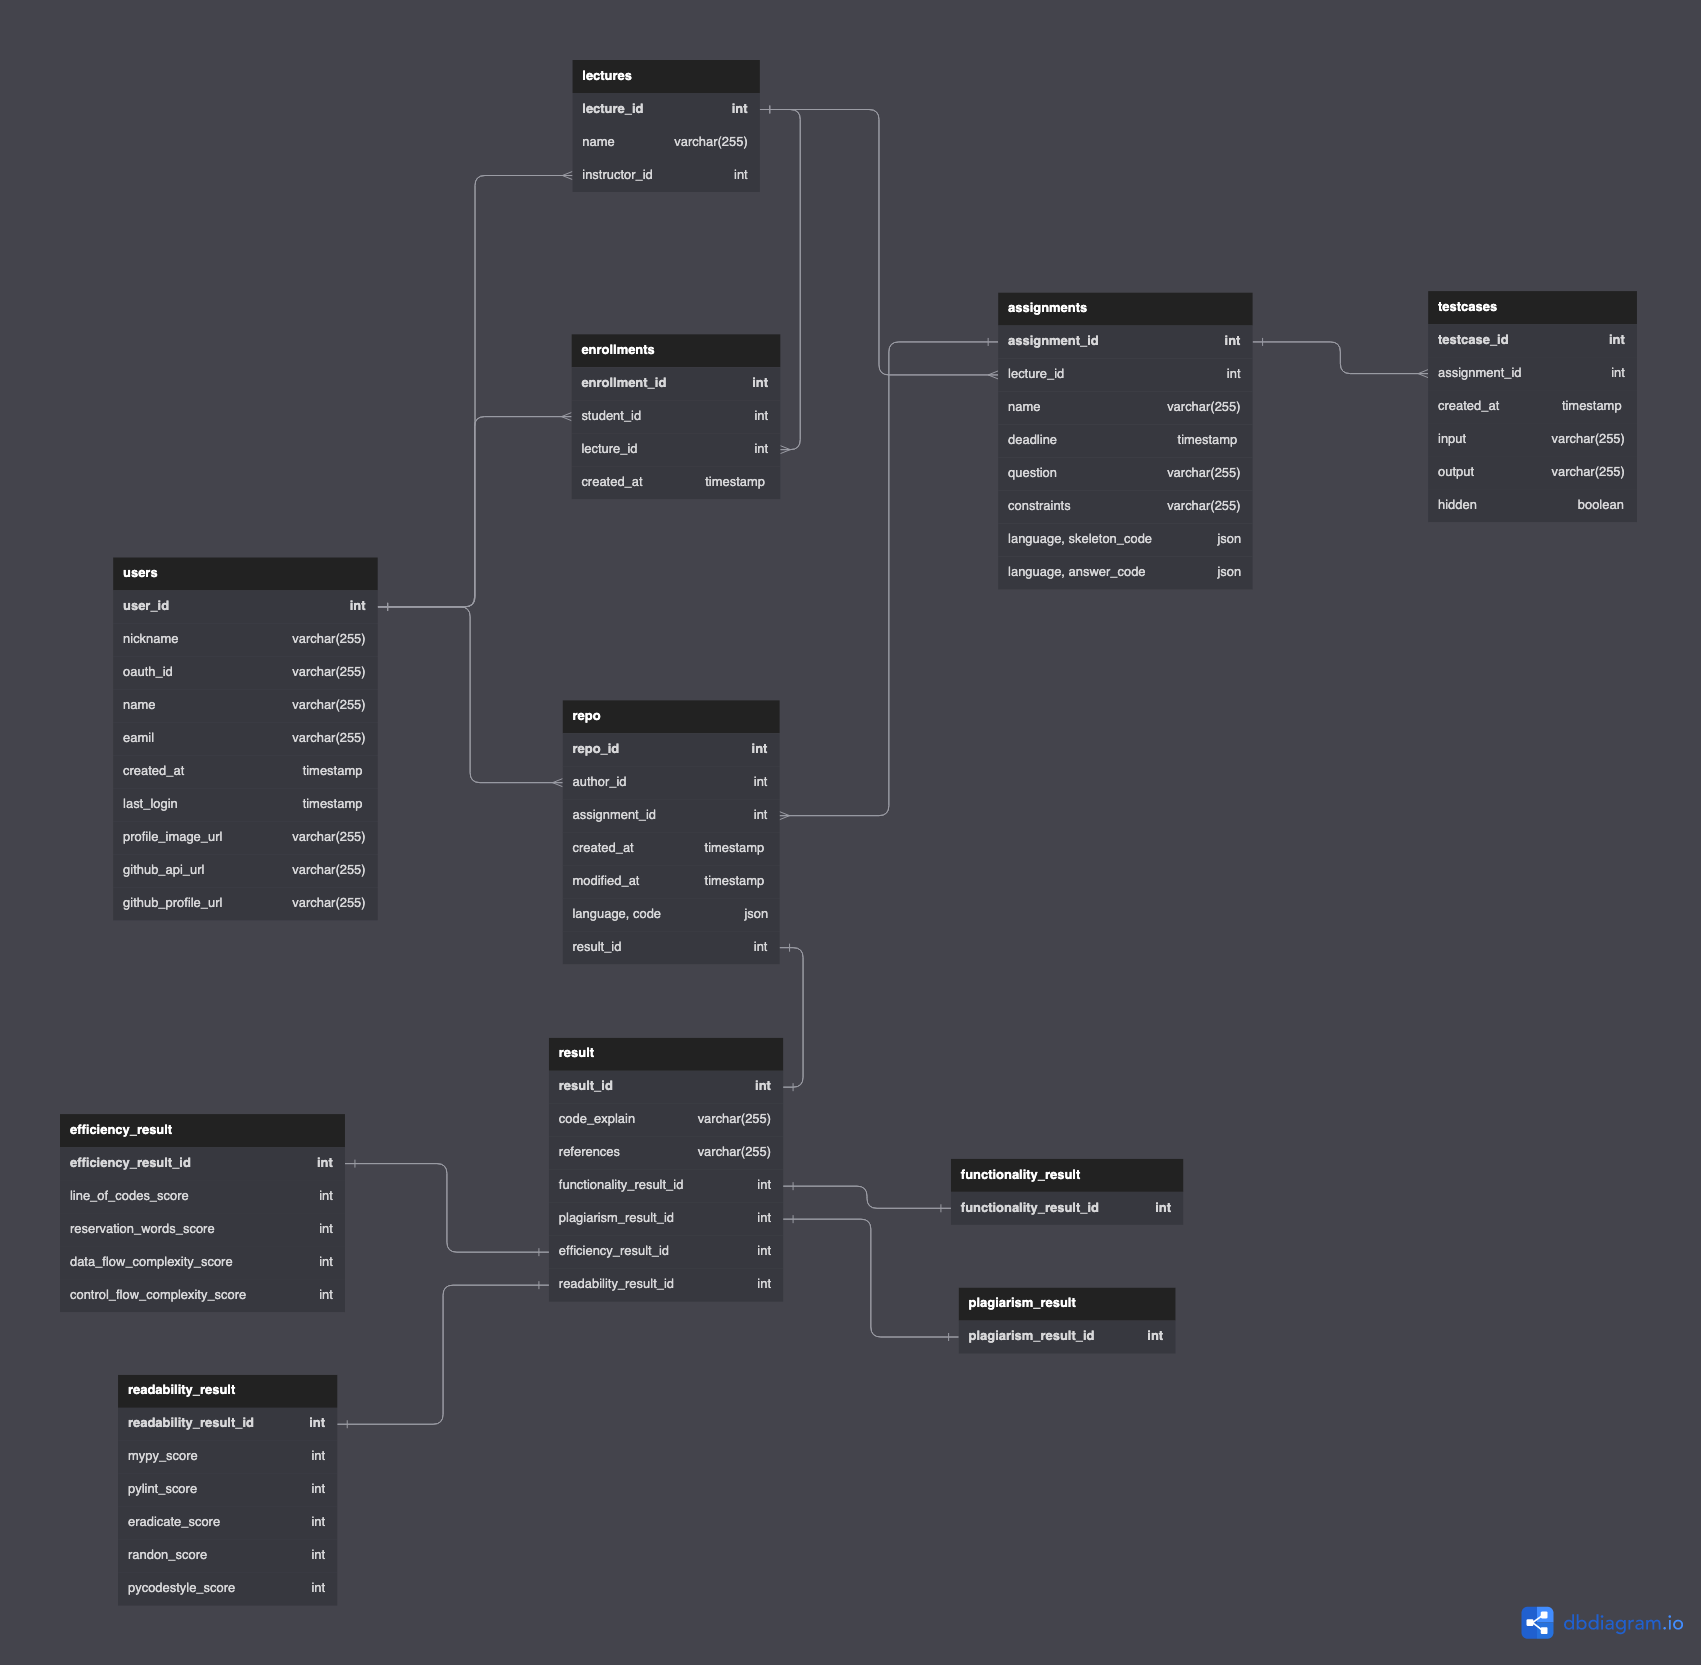
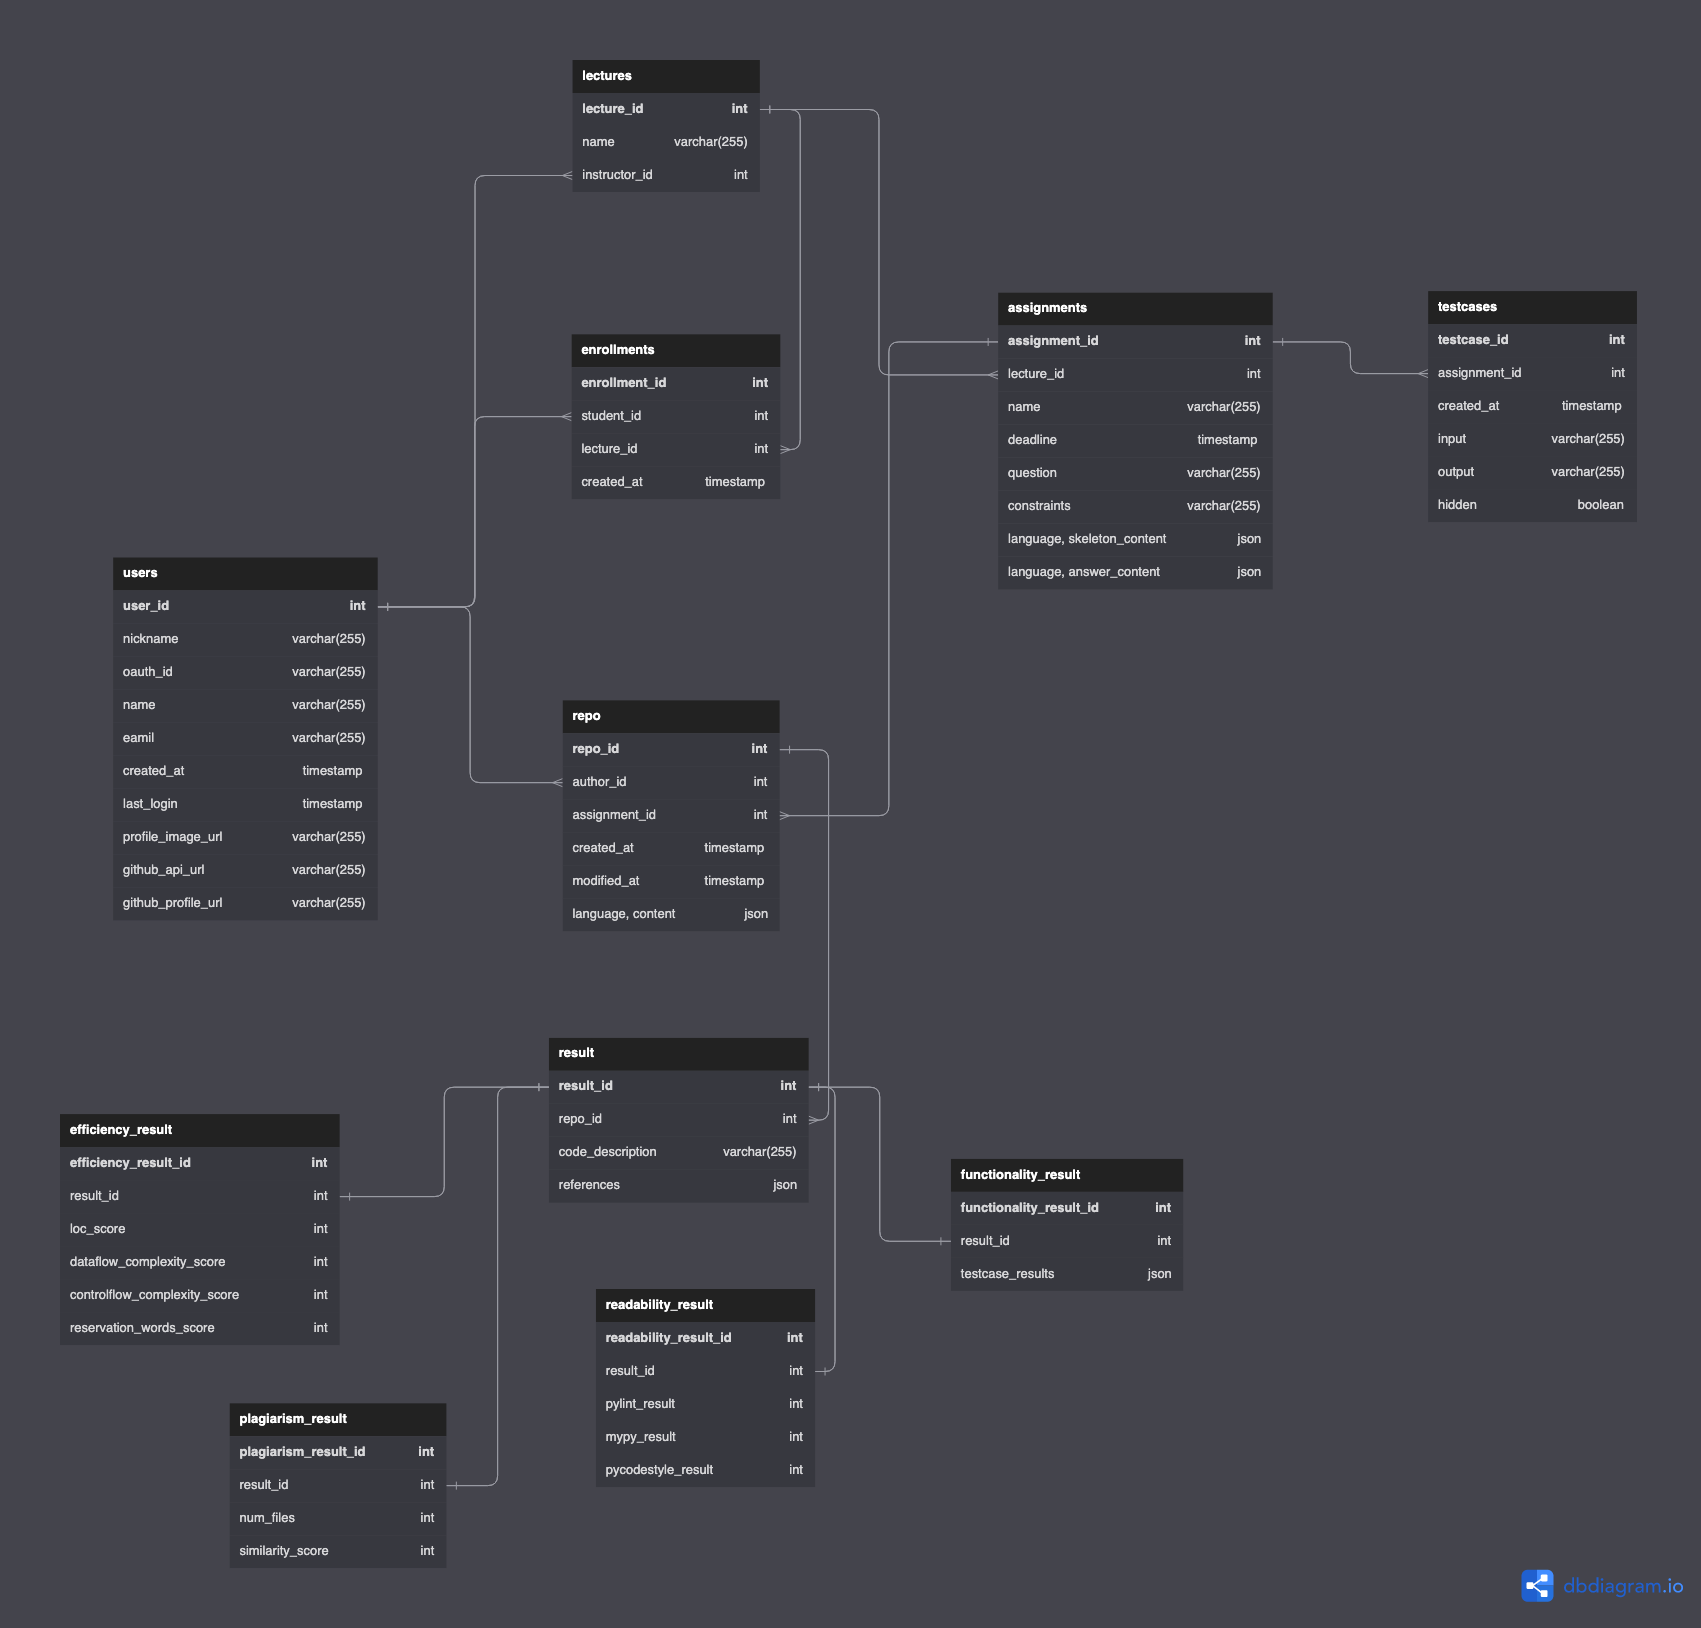
docs: Update DB schema and API schema

diff --git a/docs/api-schema.md b/docs/api-schema.md
@@ -28,7 +28,6 @@
 |            | GET       | /repos/{repo_id}/                 | 과거 풀이 코드 세부 정보 조회                |
 |            | PUT       | /repos/{repo_id}/                 | 풀이 코드 저장                               |
 | Output     | POST      | /outputs/exercises/               | 풀이 코드 실행 및 결과 전달                  |
-|            | POST      | /outputs/testcases/               | 비공개를 포함한 모든 테스트 케이스 결과 전달 |
 |            | POST      | /outputs/testcases/{testcase_id}/ | 테스트 케이스 결과 전달                      |
 |            | GET       | /outputs/results/                 | 모든 과제 제출 결과 조희                     |
 |            | POST      | /outputs/results/                 | 과제 제출                                    |
@@ -78,7 +77,7 @@ Acesss Token 재발급
 
 - Request: `auth (required)`, `name`
 
-- Response: `lecture_id`, `name`, `instructor`, `is_instructor`, `is_student`
+- Response: `lecture_id`, `name`, `{instructor}`, `is_instructor`, `is_student`
 
 ### GET /lectures/{lecture_id}/
 
@@ -88,7 +87,7 @@ Acesss Token 재발급
 
 - Request: `auth (optional)`
 
-- Response: `lecture_id`, `name`, `instructor`, `is_instructor`, `is_student`
+- Response: `lecture_id`, `name`, `{instructor}`, `is_instructor`, `is_student`
 
 ### DELETE /lectures/{lecture_id}/
 
@@ -118,7 +117,7 @@ Acesss Token 재발급
 
 - Request: `auth (required)`, `lecture_id`
 
-- Response: `enrollment_id`
+- Response: `enrollment_id`, `created_at`
 
 ### GET /enrollments/{enrollment_id}/
 
@@ -126,7 +125,7 @@ Acesss Token 재발급
 
 - Request: `auth (required)`
 
-- Response: `enrollment_id`, `created_at`, `user_info`, `lecture_info`
+- Response: `enrollment_id`, `created_at`
 
 ### DELETE /enrollments/{enrollment_id}/
 
@@ -156,9 +155,9 @@ Acesss Token 재발급
 
 요청자의 Auth가 강의 Instructor와 일치해야 함
 
-- Request: `auth (required)`, `lecture_id`, `deadline`, `question`, `constraints`, ...{`language`, `skeleton_code`}, ...{`language`, `answer_code`}
+- Request: `auth (required)`, `lecture_id`, `deadline`, `question`, `constraints`, `[{language, skeleton_content}]`, `[{language, answer_content}]`
 
-- Response: `assignment_id`, `name`, `deadline`, `question`, `constraints`, ...{`language`, `skeleton_code`}, ...{`language`, `answer_code`}
+- Response: `assignment_id`, `name`, `deadline`, `question`, `constraints`, `[{language, skeleton_content}]`, `[{language, answer_content}]`
 
 ### GET /assignments/{assignment_id}/
 
@@ -168,7 +167,7 @@ Acesss Token 재발급
 
 - Request: `auth (optional)`
 
-- Response: `assignment_id`, `name`, `deadline`, `question`, `constraints`, ...{`language`, `skeleton_code`}, ...{`language`, `answer_code`}
+- Response: `assignment_id`, `name`, `deadline`, `question`, `constraints`, `[{language, skeleton_content}]`, `[{language, answer_content}]`
 
 ### DELETE /assignments/{assignment_id}/
 
@@ -246,17 +245,17 @@ Acesss Token 재발급
 
 제출 처리 된 Repo는 예외 처리 되어야 함
 
-- Request: `auth (required)`, `assignment_id`, `language`, `code`
+- Request: `auth (required)`, `assignment_id`, `language`, `content`
 
-- Response: `repo_id`, `created_at`, `modified_at`, `language`, `code`
+- Response: `repo_id`, `created_at`, `modified_at`, `language`, `content`
 
 ### GET /repos/{repo_id}/
 
 과거 풀이 코드 세부 정보 조회
 
-- Request: `auth (required)`, `assignment_id`
+- Request: `auth (required)`
 
-- Response: `repo_id`, `created_at`, `modified_at`, `language`, `code`
+- Response: `repo_id`, `created_at`, `modified_at`, `language`, `content`
 
 ### PUT /repos/{repo_id}/
 
@@ -264,9 +263,9 @@ Acesss Token 재발급
 
 제출 처리 된 Repo는 변경 불가해야 함
 
-- Request: `auth (required)`, `language`, `code`
+- Request: `auth (required)`, `language`, `content`
 
-- Response: `repo_id`, `created_at`, `modified_at`, `language`, `code`
+- Response: `repo_id`, `created_at`, `modified_at`, `language`, `content`
 
 ## Output
 
@@ -274,19 +273,9 @@ Acesss Token 재발급
 
 풀이 코드 실행 및 결과 전달
 
-- Request: `auth (required)`, `language`, `code`, `input`
+- Request: `auth (required)`, `language`, `content`, `input`
 
 - Response: `eixt_status`, `output`
-
-### POST /outputs/testcases/
-
-비공개를 포함한 모든 테스트 케이스 결과 전달
-
-단 비공개인 테스트 케이스의 결과는 세부적으로 노출시키지 않아야 함
-
-- Request: `auth (required)`, `language`, `code`
-
-- Response: `...`
 
 ### POST /outputs/testcases/{testcase_id}/
 
@@ -294,9 +283,9 @@ Acesss Token 재발급
 
 공개 테스트 케이스인 경우 실행 결과를 노출, 비공개인 경우 노출하지 않음
 
-- Request: `auth (required)`, `language`, `code`
+- Request: `auth (required)`, `language`, `content`
 
-- Response: `hidden`, `expected_output`, `actual_output`
+- Response: `input`, `is_error`, `expected_output`, `actual_output`, `is_pass`
 
 ### GET /outputs/results/
 
@@ -316,9 +305,9 @@ Acesss Token 재발급
 
 제출 처리 후 해당 Repo는 변경 불가해야 함
 
-- Request: `auth (required)`, `assignment_id`, `repo_id`, `language`, `code`
+- Request: `auth (required)`, `repo_id`, `language`, `content`
 
-- Response: `answer_code`, `{references}`, `code_explain`, `{functionality_result}`, `{plagiarism_result}`, `{efficiency_result}`, `{readability_result}`
+- Response: `answer_code`, `[references]`, `code_explain`, `{functionality_result}`, `{plagiarism_result}`, `{efficiency_result}`, `{readability_result}`
 
 ### GET /outputs/results/{result_id}/
 
@@ -326,4 +315,4 @@ Acesss Token 재발급
 
 - Request: `auth (required)`, `assignment_id`
 
-- Response: `answer_code`, `{references}`, `code_explain`, `{functionality_result}`, `{plagiarism_result}`, `{efficiency_result}`, `{readability_result}`
+- Response: `answer_code`, `[references]`, `code_explain`, `{functionality_result}`, `{plagiarism_result}`, `{efficiency_result}`, `{readability_result}`
